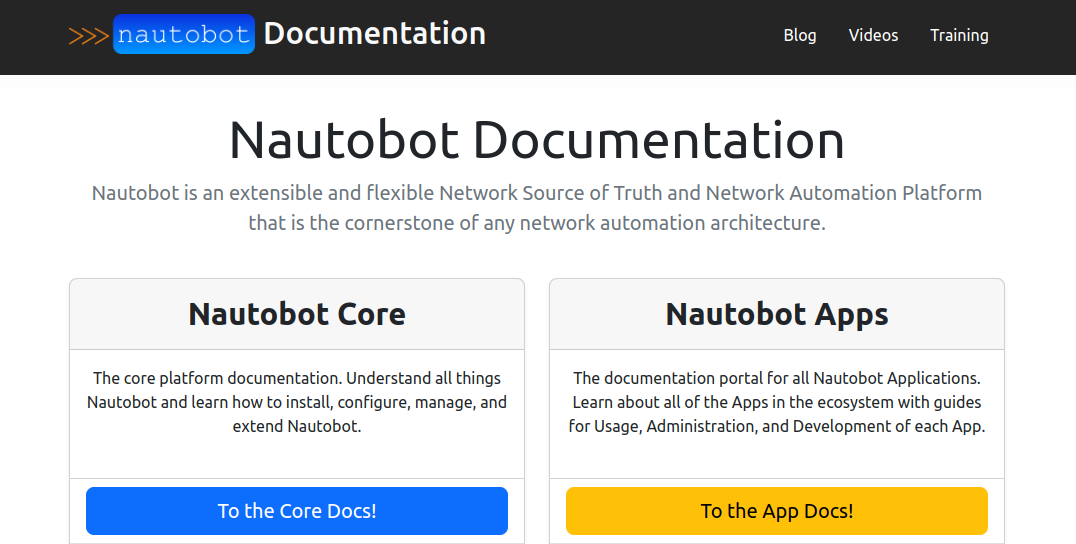
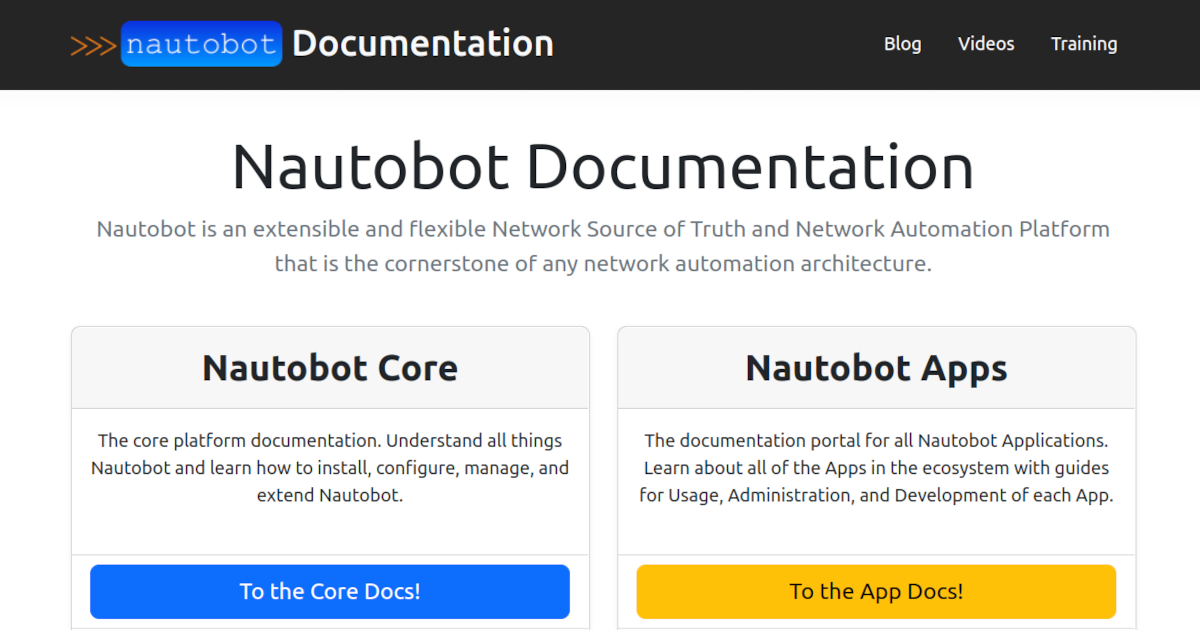
Change Twitter card image

diff --git a/html/index.html b/html/index.html
@@ -10,7 +10,7 @@
     <meta property="og:title" content="Nautobot Documentation" />
     <meta property="og:description"
         content="Nautobot is an extensible and flexible Network Source of Truth and Network Automation Platform that is the cornerstone of any network automation architecture. This page is the perfect starting point for accessing all Nautobot ecosystem documentation." />
-    <meta property="og:image" content="https://docs.nautobot.com/assets/img/docs-tall.png">
+    <meta property="og:image" content="https://docs.nautobot.com/assets/img/docs-wide.png">
     <meta property="og:url" content="https://docs.nautobot.com">
     <meta property="og:site_name" content="Nautobot" />
     <meta property="og:type" content="website" />
